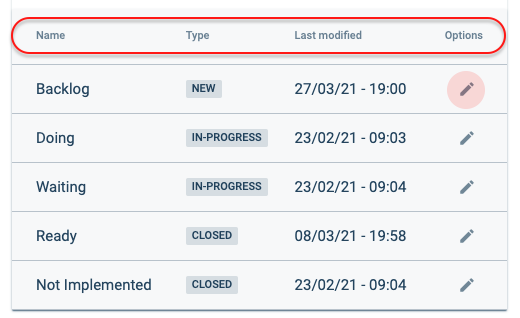
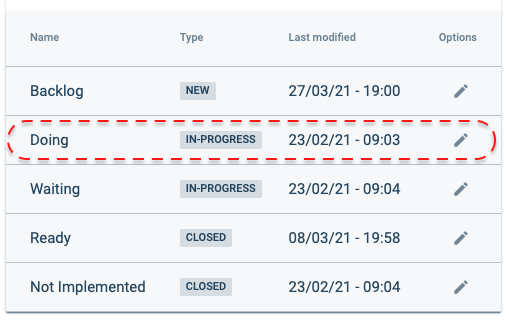
State change and subtask permissions added

diff --git a/docs/documentation/admin/workflows/admin_workflow_configure.md b/docs/documentation/admin/workflows/admin_workflow_configure.md
@@ -307,13 +307,14 @@ See the [Survey](/docs/documentation/admin/survey/survey_overview) documentation
 </div>
 <br/>
 
+#### How to create a state {#how-to-create-a-state}
 To [create a new state](#create-edit-single-state), press the <span className="badge badge--secondary">+</span> icon (circled in red in the image below) in the **Workflow states** section.
 
 <img alt="create state" className="img_sizing_narrow item shadow--tl" src={useBaseUrl('img/admin_workflow_states_02.png')} />
 <br/>
 
-
-In the table, you can see workflow states listed by _name_, _type_, and _date last modified_. To [edit](#create-edit-single-state) a _state_, in the _options_ column, click on the icon circled red as shown in the image below.
+#### How to edit a state {#how-to-edit-a-state}
+Workflow _states_ are listed on a table found at the end of the <span className="badge badge--secondary">states</span> section. To [edit](#create-edit-single-state) a _state_, click anywhere on its row.
 
 <img alt="create state" className="img_sizing_narrow item shadow--tl" src={useBaseUrl('img/admin_workflow_states_03.png')} />
 <br/>
@@ -326,7 +327,7 @@ In the table, you can see workflow states listed by _name_, _type_, and _date la
 
 ### Create/Edit State {#create-edit-single-state}
 
-You will be taken to the following settings panel after pressing the <span className="badge badge--secondary">+</span> create state icon or after clicking on the workflow state from the table in the [**States** section](#states-section).
+You will be taken to the following settings panel after pressing the <span className="badge badge--secondary">+</span> [create state icon](#how-to-create-a-state) or after clicking on the workflow state from the [table](#how-to-edit-a-state) in the <span className="badge badge--secondary">States</span> section.
 
 <img alt="create state" className="img_sizing_narrow item shadow--tl" src={useBaseUrl('img/admin_workflows_create_state_00.png')} />
 <br/>
@@ -339,7 +340,7 @@ _Below, you will find the descriptions and notes for each field in the **Create 
 <div className="col col--12"><b>General information</b></div>
 </div>
 <div className="row table-row-1">
-<div className="col col--3"><b>Type:</b></div>
+<div className="col col--3"><b>Type</b>:</div>
 <div className="col col--5">
 
 Indicates the state type. Options are: _new_ (connects with start), _in progress_ (connects to other states), or _closed_ (connects to end).
@@ -348,7 +349,7 @@ Indicates the state type. Options are: _new_ (connects with start), _in progress
 <div className="col col--4"><em>This field is mandatory.</em></div>
 </div>
 <div className="row table-row-2">
-<div className="col col--3"><b>Elements:</b></div>
+<div className="col col--3"><b>Elements</b>:</div>
 <div className="col col--5">Enter the state name.</div>
 <div className="col col--4"><em>
 
@@ -360,12 +361,12 @@ The state should already exist as an element in the collection selected previous
 <div className="col col--12"><b>State changes</b></div>
 </div>
 <div className="row table-row-1">
-<div className="col col--3"><b>+ Add state change:</b></div>
+<div className="col col--3"><b>+ Add state change</b>:</div>
 <div className="col col--5">Indicates successor states. If it is the final state, this field is not required. Multiple state changes can be added, allowing diverse courses of action.</div>
 <div className="col col--4"><em>When pressed, the other fields and buttons appear.</em></div>
 </div>
 <div className="row table-row-2">
-<div className="col col--3"><b>State:</b></div>
+<div className="col col--3"><b>State</b>:</div>
 <div className="col col--5">Enter the name of the succeeding state.</div>
 <div className="col col--4"><em>States must have been previously saved into the workflow.</em></div>
 </div>
@@ -386,7 +387,7 @@ Creates an action button in the workflow's channel that indicates how a state ch
 </em></div>
 </div>
 <div className="row table-row-2">
-<div className="col col--3"><b>Start form:</b></div>
+<div className="col col--3"><b>Start form</b>:</div>
 <div className="col col--5">
 
 Indicates that a survey will change the workflow's state. Remember to previously create the survey and choose it from the dropdown menu where all existing surveys will appear as options.
@@ -399,13 +400,19 @@ Go to [Workflow Survey Triggers](/docs/documentation/admin/workflows/admin_workf
 </em></div>
 </div>
 <div className="row table-row-1">
-<div className="col col--3"><b>+ Edit Routine:</b></div>
+<div className="col col--3"><b>+ Edit Routine</b>:</div>
 <div className="col col--5">Routines automate processes within the workflow.</div>
 <div className="col col--4"><em>
 
 [Click here](/docs/documentation/automation/admin_routine) to learn more about routines.
 
 </em></div>
+</div>
+<div className="row table-row-2">
+<div className="col col--3"><b>State change permissions</b>:</div>
+<div className="col col--5">Select the specific permissions a user needs to create a task or modify its state.</div>
+<div className="col col--4"><em></em></div>
+
 </div>
 <div className="row table-row-title">
 <div className="col col--12"><b>Subtask</b></div>
@@ -423,6 +430,11 @@ Go to [Workflow Survey Triggers](/docs/documentation/admin/workflows/admin_workf
 [Click here](/docs/documentation/automation/admin_routine) to learn more about routines.
 
 </em></div>
+</div>
+<div className="row table-row-1">
+<div className="col col--3"><b>Subtask creation permissions:</b></div>
+<div className="col col--5">Select the specific permissions a user needs to create a subtask or modify its state.</div>
+<div className="col col--4"><em></em></div>
 </div>
 <div className="row table-row-title">
 <div className="col col--12"><b>Survey triggers</b></div>
